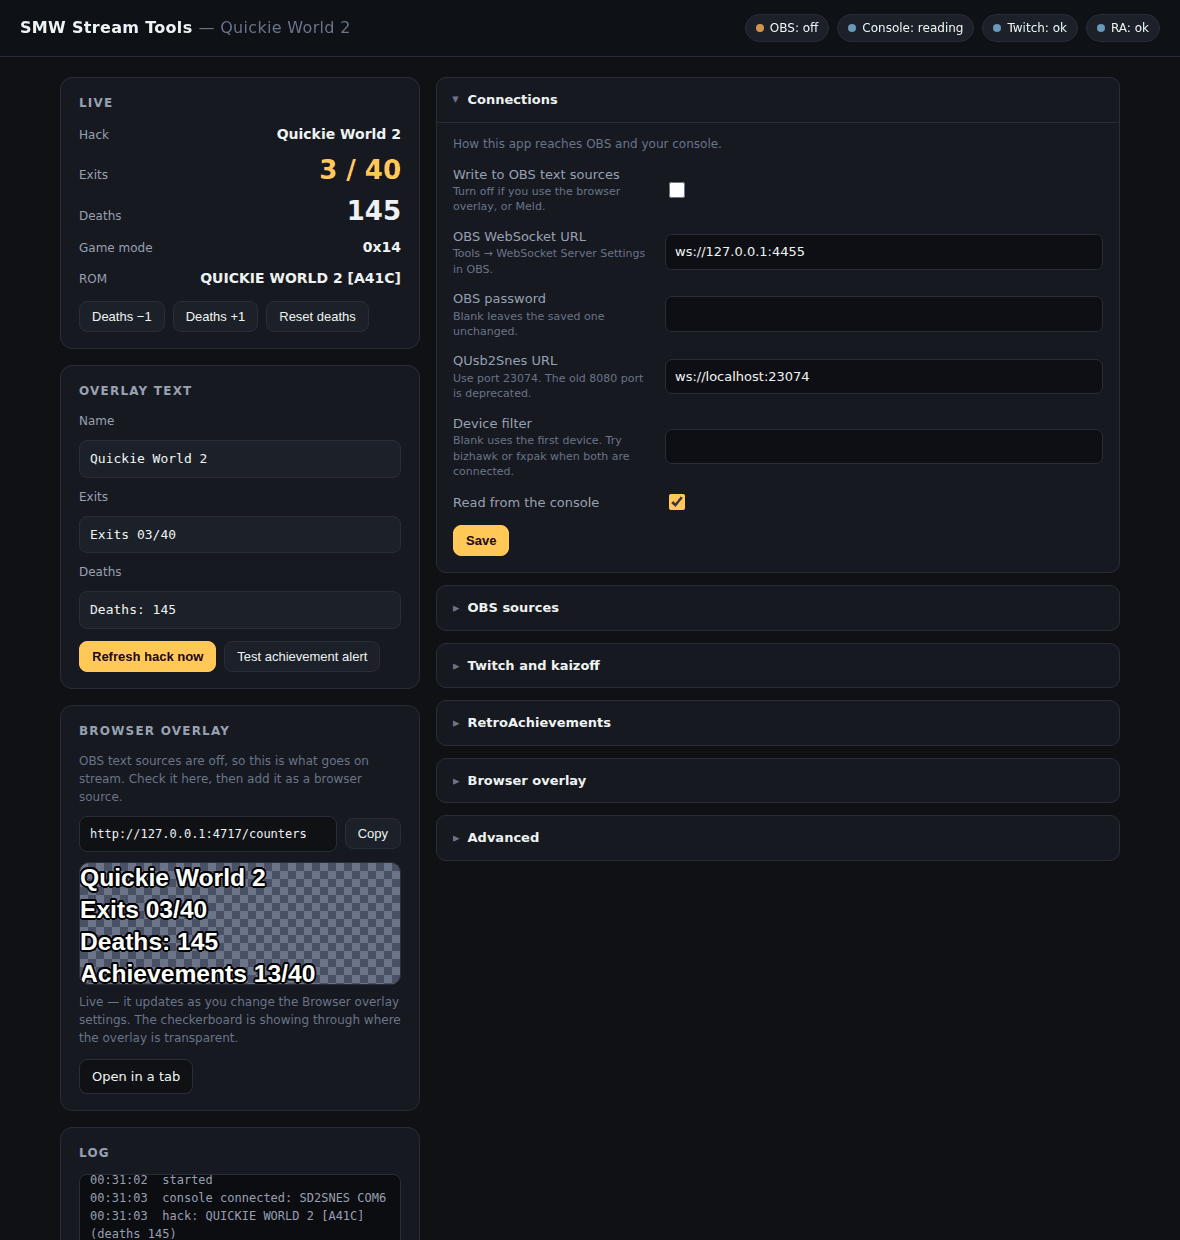
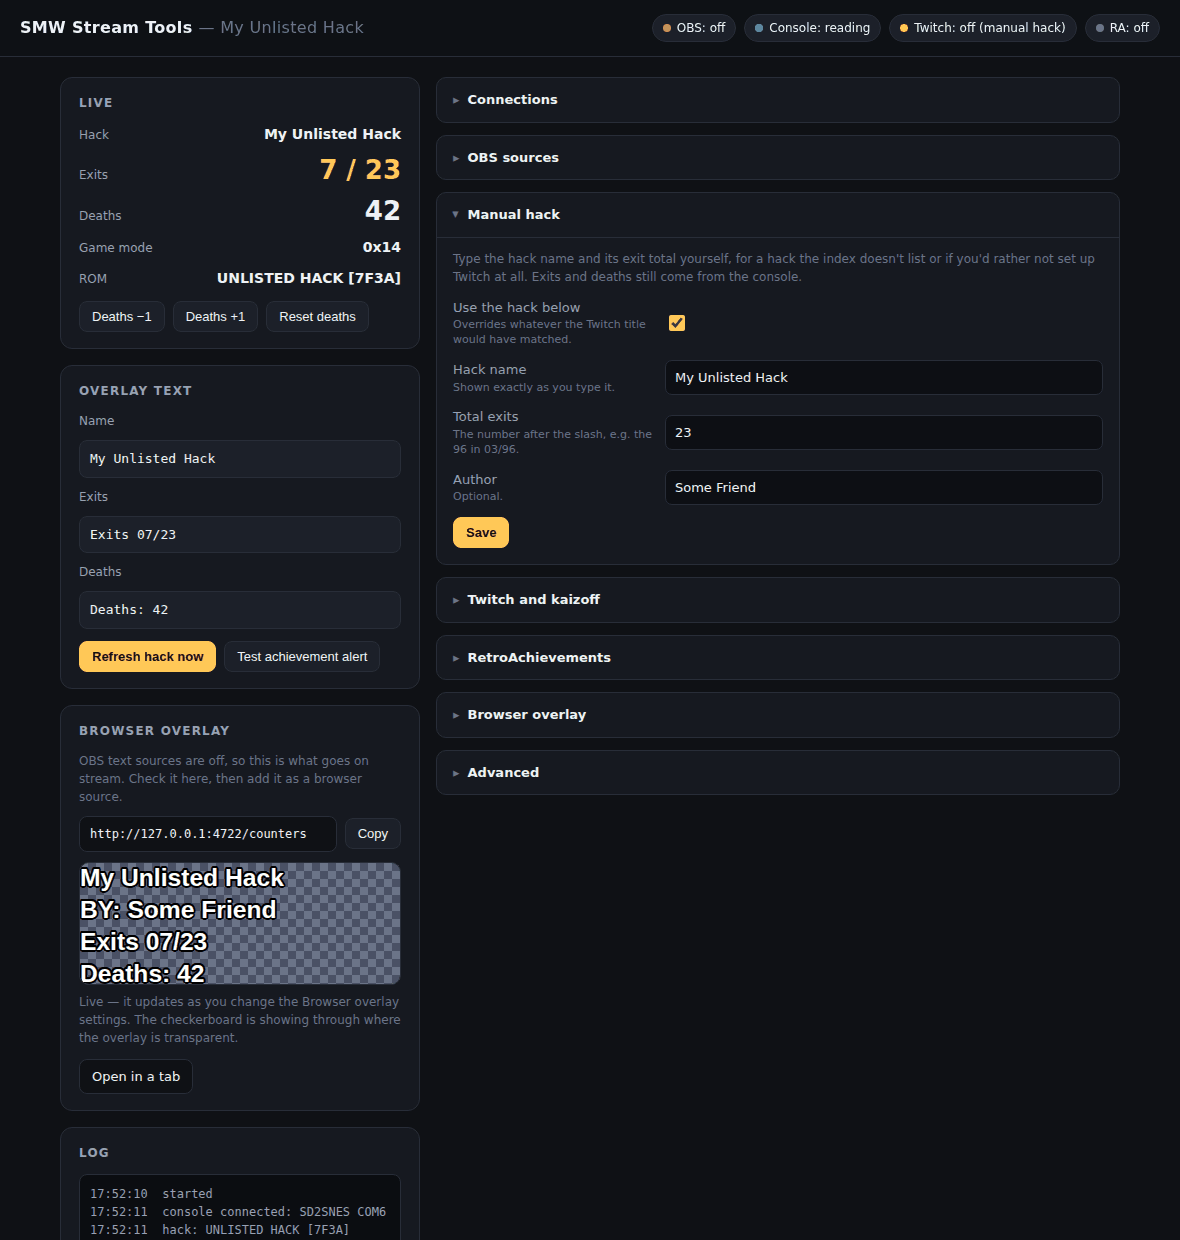
Added manual text entry of hack name and exits

diff --git a/smwtools/static/index.html b/smwtools/static/index.html
@@ -196,6 +196,12 @@ const FIELDS = [
     ["deaths_format", "Deaths format", "text", "{deaths}"],
     ["author_format", "Author format", "text", "{author}"],
   ]],
+  ["Manual hack", "Type the hack name and its exit total yourself, for a hack the index doesn't list or if you'd rather not set up Twitch at all. Exits and deaths still come from the console.", [
+    ["manual_on", "Use the hack below", "bool", "Overrides whatever the Twitch title would have matched."],
+    ["manual_name", "Hack name", "text", "Shown exactly as you type it."],
+    ["manual_exits", "Total exits", "number", "The number after the slash, e.g. the 96 in 03/96."],
+    ["manual_author", "Author", "text", "Optional."],
+  ]],
   ["Twitch and kaizoff", "Reads your stream title to work out which hack you're playing.", [
     ["enable_twitch", "Match hack from stream title", "bool", ""],
     ["twitch_channel", "Twitch channel", "text", ""],

diff --git a/smwtools/app.py b/smwtools/app.py
@@ -30,6 +30,7 @@ SNES_KEYS = ("snes_url", "snes_device", "exit_addr", "gate_addr", "gate_min",
              "death_value", "poll_ms", "rom_addr", "enable_snes")
 RA_KEYS = ("ra_user", "ra_api_key", "ra_game_id", "ra_hardcore", "enable_ra",
            "ra_progress_poll_s", "ra_alerts_on", "ra_alert_poll_s")
+MANUAL_KEYS = ("manual_on", "manual_name", "manual_exits", "manual_author")
 
 
 class App(object):
@@ -281,6 +282,12 @@ class App(object):
         last_title = None
         while self._run:
             cfg = self.config
+            if self._manual_active():
+                # Nothing to look up: the name and total were typed in. Don't
+                # spend API calls on a title whose answer would be discarded.
+                self.set_state("twitch", status="off (manual hack)")
+                time.sleep(2)
+                continue
             if not (cfg["enable_twitch"] and cfg["twitch_channel"]
                     and cfg["twitch_client_id"] and cfg["twitch_client_secret"]):
                 self.set_state("twitch", status="off")
@@ -298,8 +305,48 @@ class App(object):
                 self.set_state("twitch", status="error: %s" % exc)
             self._sleep(max(cfg["title_poll_seconds"], 15))
 
+    def _manual_active(self):
+        """Is the typed-in hack actually overriding anything?
+
+        Ticked but with the name left blank is not an override — it would
+        otherwise freeze whatever was last shown, which is the least
+        predictable thing it could do.
+        """
+        return bool(self.config["manual_on"]
+                    and (self.config["manual_name"] or "").strip())
+
+    def _apply_manual(self):
+        """Use the hack name and exit total typed into the settings page.
+
+        Exits and deaths are read from the console and are not affected by any
+        of this — the console is the only thing that knows them. What the index
+        supplies is the name and the total, and it cannot know about every
+        hack. This is the way out for an unlisted hack, a title the matcher
+        refuses, or anyone who would rather not register a Twitch app at all.
+        """
+        cfg = self.config
+        name = (cfg["manual_name"] or "").strip()
+        if not name:
+            return False
+        total = max(0, int(cfg["manual_exits"] or 0))
+        current = self.state.get("hack") or {}
+        author = (cfg["manual_author"] or "").strip()
+        if (current.get("name") == name and current.get("exits") == total
+                and current.get("author", "") == author):
+            return True            # already showing this; don't churn the overlay
+        self.set_state(None, hack={
+            "name": name, "display": name, "exits": total, "author": author,
+            "difficulty": "", "type": "", "id": None, "manual": True,
+        })
+        self.log("manual hack: %s (%s exits)%s"
+                 % (name, total, " by %s" % author if author else ""))
+        self.request_render()
+        return True
+
     def _apply_title(self, title):
         cfg = self.config
+        if self._manual_active():
+            return                 # the typed-in hack wins
         hacks = self.kaizoff.hacks or self.kaizoff.fetch_hacks(
             cfg["hack_cache_hours"], cfg["allow_insecure_hacks"])
         hack, reason = kz.match_hack(title, hacks, self.kaizoff.overrides, self.log)
@@ -356,6 +403,8 @@ class App(object):
 
     def start(self):
         self._run = True
+        if self._manual_active():
+            self._apply_manual()
         for target in (self._obs_loop, self._render_loop, self._twitch_loop):
             thread = threading.Thread(target=target, daemon=True)
             thread.start()
@@ -403,11 +452,27 @@ class App(object):
         if self.retro and moved(RA_KEYS):
             self.retro.stop()
             self.retro.start()
+        if moved(MANUAL_KEYS):
+            if self._manual_active():
+                self._apply_manual()
+            else:
+                # Back to the index: drop the typed-in hack and re-match the
+                # last title, rather than leaving it on screen until the title
+                # happens to change.
+                if (self.state.get("hack") or {}).get("manual"):
+                    self.set_state(None, hack=None)
+                title = self.state["twitch"].get("title")
+                if title:
+                    self._apply_title(title)
+
         # Turning on anything that shows the author has to fetch it now. It is
         # otherwise only looked up when the hack changes, so ticking the box
         # mid-stream would leave the line blank until the next hack.
+        # A manual hack has no index entry to look an author up in — whatever
+        # was typed is all there is.
         hack = self.state.get("hack")
-        if hack and self._wants_author() and not hack.get("author"):
+        if (hack and not hack.get("manual") and hack.get("id")
+                and self._wants_author() and not hack.get("author")):
             author = self.kaizoff.fetch_authors(
                 hack.get("id"), self.config["allow_insecure_hacks"])
             if author:

diff --git a/smwtools/config.py b/smwtools/config.py
@@ -33,6 +33,14 @@ DEFAULTS = {
     "obs_url": "ws://127.0.0.1:4455",
     "obs_password": "",
 
+    # Manual hack override. Exits and deaths always come from the console;
+    # only the name and the total have to be told to us, and the index cannot
+    # know about every hack — nor does everyone want to register a Twitch app.
+    "manual_on": False,
+    "manual_name": "",
+    "manual_exits": 0,
+    "manual_author": "",
+
     # Twitch / kaizoff
     "twitch_channel": "",
     "twitch_client_id": "",

diff --git a/README.md b/README.md
@@ -25,11 +25,25 @@ Deaths come from SMW's sprite-lock byte, which holds a distinct value for about 
 | **Streaming software** | OBS 28 or later, or [Meld Studio](https://meldstudio.co) — anything with a browser source works |
 | **Python** | 3.8 or later, unless you use the executable |
 | **QUsb2Snes** | [QUsb2Snes](https://skarsnik.github.io/QUsb2snes/), for the exit and death counters |
+| **RA2Snes** | [RA2Snes](https://github.com/Factor-64/RA2Snes), for Retro Achievements |
 | **Hardware or emulator** | FXPak Pro / sd2snes over USB, or BizHawk / snes9x-rr / RetroArch |
 
 Nothing else is required. The console side is optional, and so are Twitch and RetroAchievements — each part works without the others. obs-websocket is needed only if you write to OBS text sources; the browser overlay doesn't use it.
 
 ## Setup
+
+## The executable
+
+Most people who want this don't have Python, so each release carries a prebuilt
+**`SMW Stream Tools.exe`** — a single file that needs nothing installed. Grab it
+from [Releases](../../releases) and skip the setup steps below; the app still
+opens the same settings page in your browser.
+
+Settings go in a `data` folder beside the exe, so they survive updates. Keep
+that folder when you replace the executable.
+
+
+If you want to build from source instead of just running the executable then follow the steps below.
 
 **1. Install the one dependency and start the app.**
 
@@ -49,16 +63,6 @@ On Windows you can double-click `start.bat`, or build the executable described b
 
 **4. Optional: Twitch and RetroAchievements.** Both have their own sections below.
 
-## The executable
-
-Most people who want this don't have Python, so each release carries a prebuilt
-**`SMW Stream Tools.exe`** — a single file that needs nothing installed. Grab it
-from [Releases](../../releases) and skip the setup steps above; the app still
-opens the same settings page in your browser.
-
-Settings go in a `data` folder beside the exe, so they survive updates. Keep
-that folder when you replace the executable.
-
 ### Building it yourself
 
 ```
@@ -70,17 +74,6 @@ It installs what it needs, builds, and leaves **`SMW Stream Tools.exe`** in the 
 The build is windowed, meaning no console, so if it fails to start there's nowhere for an error to appear — it writes `startup-error.txt` next to the exe instead. If it starts but you get no tray icon, open the settings page: the log says why.
 
 On macOS or Linux, run the same PyInstaller command by hand with `:` instead of `;` in `--add-data`.
-
-### Cutting a release
-
-Pushing a version tag builds the executable on a Windows runner and publishes it:
-
-```
-git tag v1.0.0
-git push origin v1.0.0
-```
-
-The workflow is `.github/workflows/build.yml`. It runs the same PyInstaller command as `build.bat` — if you change one, change the other — and attaches the exe to a release named after the tag. You can also run it by hand from the Actions tab without tagging, which leaves the exe as a downloadable artifact instead.
 
 ## The browser overlay
 
@@ -132,8 +125,6 @@ The achievement **unlock alert** at `/overlay` is separate and unaffected — it
 
 Meld works, through the browser overlay. There is nothing else to install and no bridge to run.
 
-Meld doesn't speak obs-websocket — it has [its own API](https://github.com/MeldStudio/streamdeck/blob/main/WebChannelAPI.md), and that API can set a layer's name, position and visibility but has no way to set the **text** of a layer. So the text-source route is closed, and the browser overlay is the way in.
-
 **1. Turn off the OBS side.** In Connections, untick **Write to OBS text sources**. Otherwise the app spends the whole stream retrying a connection that will never exist, and shows red in the tray for a problem you don't have.
 
 **2. Check the overlay.** A **Browser overlay** card appears on the dashboard with a live preview and the URL. Get it looking right there first — it renders the same in Meld as it does in the preview.
@@ -146,27 +137,38 @@ http://127.0.0.1:4599/counters
 
 **4. Size and place it.** Resize the layer to suit your scene, and set **Width** in the Browser overlay settings to match — that width is what the text fits itself to. Leave the layer non-interactive; the pointer icon is for pages you click on, and this one you only look at.
 
-**5. For achievement alerts,** tick **Show unlock alerts** under RetroAchievements, then add a second Browser layer pointing at the URL the dashboard shows — `/overlay`, around 900×300.
+**5. For achievement alerts,** tick **Show unlock alerts** under RetroAchievements, then add a second Browser layer pointing at the URL the dashboard shows — 
 
-### If the background isn't transparent
+```
+http://127.0.0.1:4599/overlay
+````
+set it around 900×300.
 
-The overlay page is transparent by design, which is what you want over gameplay. OBS composites that correctly. Meld's documentation doesn't say either way, so if you end up with a white or black box behind the text, set **Background** in the Browser overlay settings to a hex colour and give it some **Background padding** — you get a deliberate plate behind the text instead of an accidental one.
+## Typing the hack in yourself
 
-If it *is* transparent, leave Background as `transparent` and there's nothing to do.
+Exits and deaths come from the console and always will — the console is the only thing that knows them. What has to come from somewhere else is the hack's **name** and its **exit total**, and no index knows about every hack.
 
-### What you give up
+The **Manual hack** section of the settings page takes both. Tick **Use the hack below**, type a name and a total, and that is what goes on screen: `Exits 07/23`, with the 7 still climbing from the console as you clear levels. There's an optional author field too.
 
-Nothing that matters. Exits, deaths, the hack name, the author line and achievements all work, because none of them need OBS — they're read from the console, Twitch and RetroAchievements, and rendered by the page.
+![Typing a hack in by hand](docs/manual-hack.png)
 
-The only OBS-specific features are the text-source ones: **Exits placement** and the font-fitting settings under Fitting long names. The overlay does its own layout and fitting in CSS, so they have no Meld equivalent and don't need one.
+Reach for it when:
+
+- the hack isn't in the kaizoff index at all
+- the matcher refuses your title, usually a sequel it can't tell from the original
+- you'd rather not register a Twitch application — **Twitch is optional**, and this is how the name and total get filled in without it
+
+Untick it and the next poll goes back to matching your stream title, with no waiting for the title to change. Leaving the name blank counts as not overriding, so it falls back the same way.
+
+While the override is on, the app stops polling Twitch entirely — there's no point spending requests on an answer it would discard.
 
 ## Twitch: where the hack name comes from
 
 The app doesn't know which hack you're playing, and there's nothing in SNES memory that reliably says. What it does instead is read your **stream title**, match it against the [kaizoff.com](https://kaizoff.com) romhack index, and get back the hack's proper name, its total exit count and its author.
 
-That's what makes `Exits 03/96` possible — the console supplies the 3, kaizoff supplies the 96. Without Twitch you still get exits and deaths counting up, but nothing knows what they're out of, and the name source stays empty.
+That's what makes `Exits 03/96` possible — the console supplies the 3, kaizoff supplies the 96. Without either Twitch or a manual entry you still get deaths counting up, but nothing knows what the exits are out of, so that line stays empty.
 
-Reading a stream title is public information, but Twitch still requires an application to ask for it. You are not logging in or authorising anything, and the app never gets access to your account — it identifies itself as an application and reads the same title anyone can see on your channel page.
+This is optional — [type the hack in yourself](#typing-the-hack-in-yourself) if you'd rather skip it. Reading a stream title is public information, but Twitch still requires an application to ask for it. You are not logging in or authorising anything, and the app never gets access to your account — it identifies itself as an application and reads the same title anyone can see on your channel page.
 
 ### Getting a Client ID and Client Secret
 
@@ -185,7 +187,7 @@ Paste both into the app's Twitch section along with your channel name (just the 
 
 ### Making titles match
 
-The matcher looks for a hack name inside your title, so `Kaizo Mario — Grand Poo World 3 — !commands` works fine. Two things to know:
+The matcher looks for a hack name inside your title, so `Kaizo Mario — Grand Poo World 2 — !commands` works fine. Two things to know:
 
 - If nothing matches, the log says so, and the app deliberately shows nothing rather than guessing. Sequels are the usual cause — it refuses `Grand Poo World 3` rather than falling back to `Grand Poo World`, because showing the wrong exit total is worse than showing none.
 - Anything it can't work out on its own goes in `data/overrides.json`, described under Overrides below.
@@ -220,7 +222,6 @@ The console is what resolves this: it reports the moment the ROM changes, which 
 This app only *reads* retroachievements.org. It doesn't detect unlocks itself, so something else has to be earning them:
 
 - **On an emulator** — RetroArch or RALibretro with RetroAchievements enabled.
-- **On real hardware** — [RA2Snes](https://github.com/Factor-64/RA2Snes), which bridges QUsb2Snes to RetroAchievements. See the next section; it runs happily alongside this app.
 
 If nothing is awarding achievements, the readout will correctly show that you have none.
 
@@ -265,6 +266,7 @@ Most defaults are fine. These are the ones worth knowing about:
 | Setting | Default | Why you'd change it |
 |---|---|---|
 | Write to OBS text sources | on | Turn off if you use the browser overlay, or Meld |
+| Use the hack below | off | Type the hack name and exit total instead of matching a Twitch title |
 | Device filter | blank | Set to `fxpak` or `bizhawk` when both are connected |
 | Exits format | `Exits {done}/{total}` | `{done} {total} {name} {author} {deaths}` all work |
 | Arm after N seconds | `10` | How long before trusting readings on a hack with no overworld |
@@ -291,7 +293,7 @@ Most defaults are fine. These are the ones worth knowing about:
 
 **SA-1 hacks aren't supported.** The FXPak can't expose their memory at all, and under emulation SA-1 relocates SMW's variables so the stock addresses don't apply. The hack name and exit total still work; count exits by hand.
 
-**No hack matched.** The log says why. If the title contains a sequel name the index doesn't carry, the matcher deliberately refuses rather than showing the base game's exit count — map it in `data/overrides.json`.
+**No hack matched.** The log says why. If the title contains a sequel name the index doesn't carry, the matcher deliberately refuses rather than showing the base game's exit count — map it in `data/overrides.json`, or just type the name and total into **Manual hack**.
 
 **The achievement text is empty.** Almost always because the hack has no achievement set. See RetroAchievements above.
 
